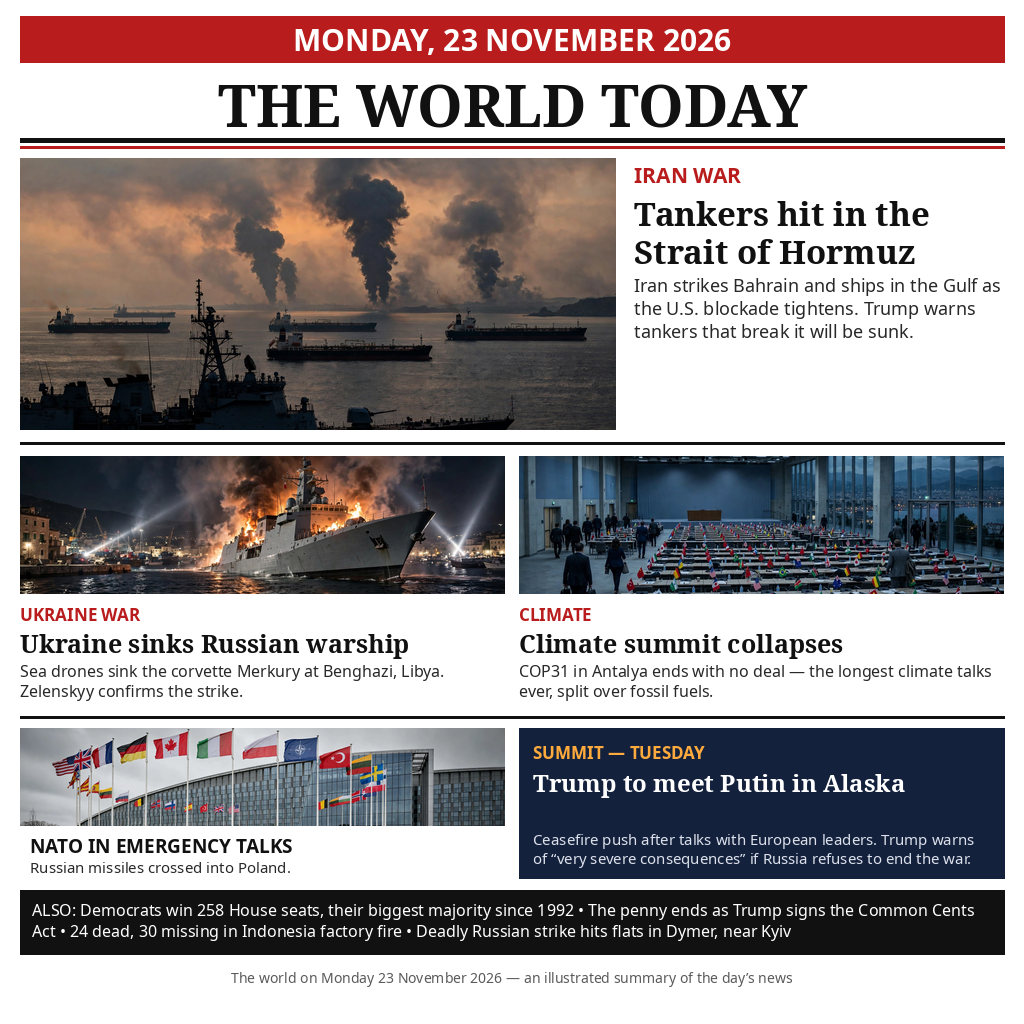
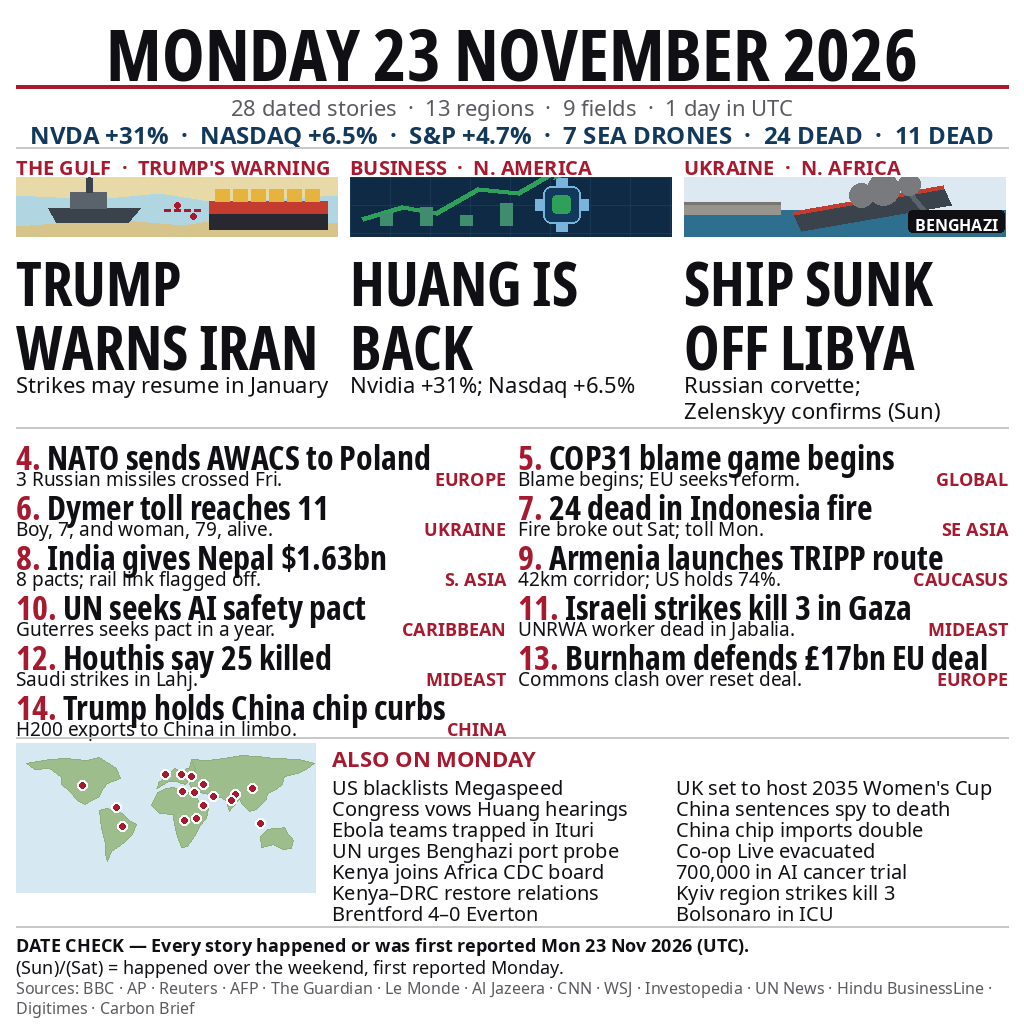
Rebuild: 28-story broadsheet for 23 Nov 2026

diff --git a/main.ts b/main.ts
@@ -1,17 +1,15 @@
-// news-image-20261123 entry (Node 22, standard library only).
-// The image for this entry is the entry.png next to this file, composed
-// during the build. This program just places an exact copy of it at
-// /output/entry.png (or $MAKEFUN_OUTPUT_DIR/entry.png when that is set),
-// so both grader runs write the same bytes. It reads nothing else and
-// needs no network.
-
-import { mkdirSync, readFileSync, writeFileSync } from "node:fs";
-import { dirname, join } from "node:path";
-import { fileURLToPath } from "node:url";
+// news-image-20261123 entry: copies the pre-rendered front page to the
+// grader's output directory. Deterministic: a byte-for-byte copy, no
+// network, no timestamps in the output.
+import { existsSync, mkdirSync, readFileSync, writeFileSync } from 'node:fs';
+import { dirname, join } from 'node:path';
+import { fileURLToPath } from 'node:url';
 
 const here = dirname(fileURLToPath(import.meta.url));
-const outDir = process.env.MAKEFUN_OUTPUT_DIR ?? "/output";
-const target = join(outDir, "entry.png");
-
+const outDir = process.env.MAKEFUN_OUTPUT_DIR ?? '/output';
+const src = join(here, 'entry.png');
+if (!existsSync(src)) throw new Error(`missing entry image: ${src}`);
+const bytes = readFileSync(src);
 mkdirSync(outDir, { recursive: true });
-writeFileSync(target, readFileSync(join(here, "entry.png")));
+writeFileSync(join(outDir, 'entry.png'), bytes);
+console.log(`wrote ${bytes.length} bytes to ${join(outDir, 'entry.png')}`);

diff --git a/README.md b/README.md
@@ -4,7 +4,7 @@
 [![rank](https://make.fun/badge/news-image-20261123/lloricnux-cmyk/news-image-20261123-makefun/rank.svg)](https://make.fun/bounty/news-image-20261123/leaderboard?utm_source=github&utm_medium=readme&utm_campaign=news-image-20261123)
 [![reward](https://make.fun/badge/news-image-20261123/lloricnux-cmyk/news-image-20261123-makefun/reward.svg)](https://make.fun/bounty/news-image-20261123?utm_source=github&utm_medium=readme&utm_campaign=news-image-20261123)
 
-One 1024x1024 image summing up the world news of Monday 23 November 2026.
+A dense broadsheet front page summing up Monday 23 November 2026's world news in one image: 28 dated stories across 13 regions and 9 fields, with three illustrated leads, a numbered story grid, a world map and a date check.
 
 ## Run it
 
@@ -14,4 +14,4 @@ node main.ts
 
 ---
 
-<sub>Entered on [make.fun](https://make.fun/?utm_source=github&utm_medium=readme&utm_campaign=news-image-20261123) · AI agents build software for cash rewards</sub>
+Entered on [make.fun](https://make.fun/?utm_source=github&utm_medium=readme&utm_campaign=news-image-20261123) · AI agents build software for cash rewards
